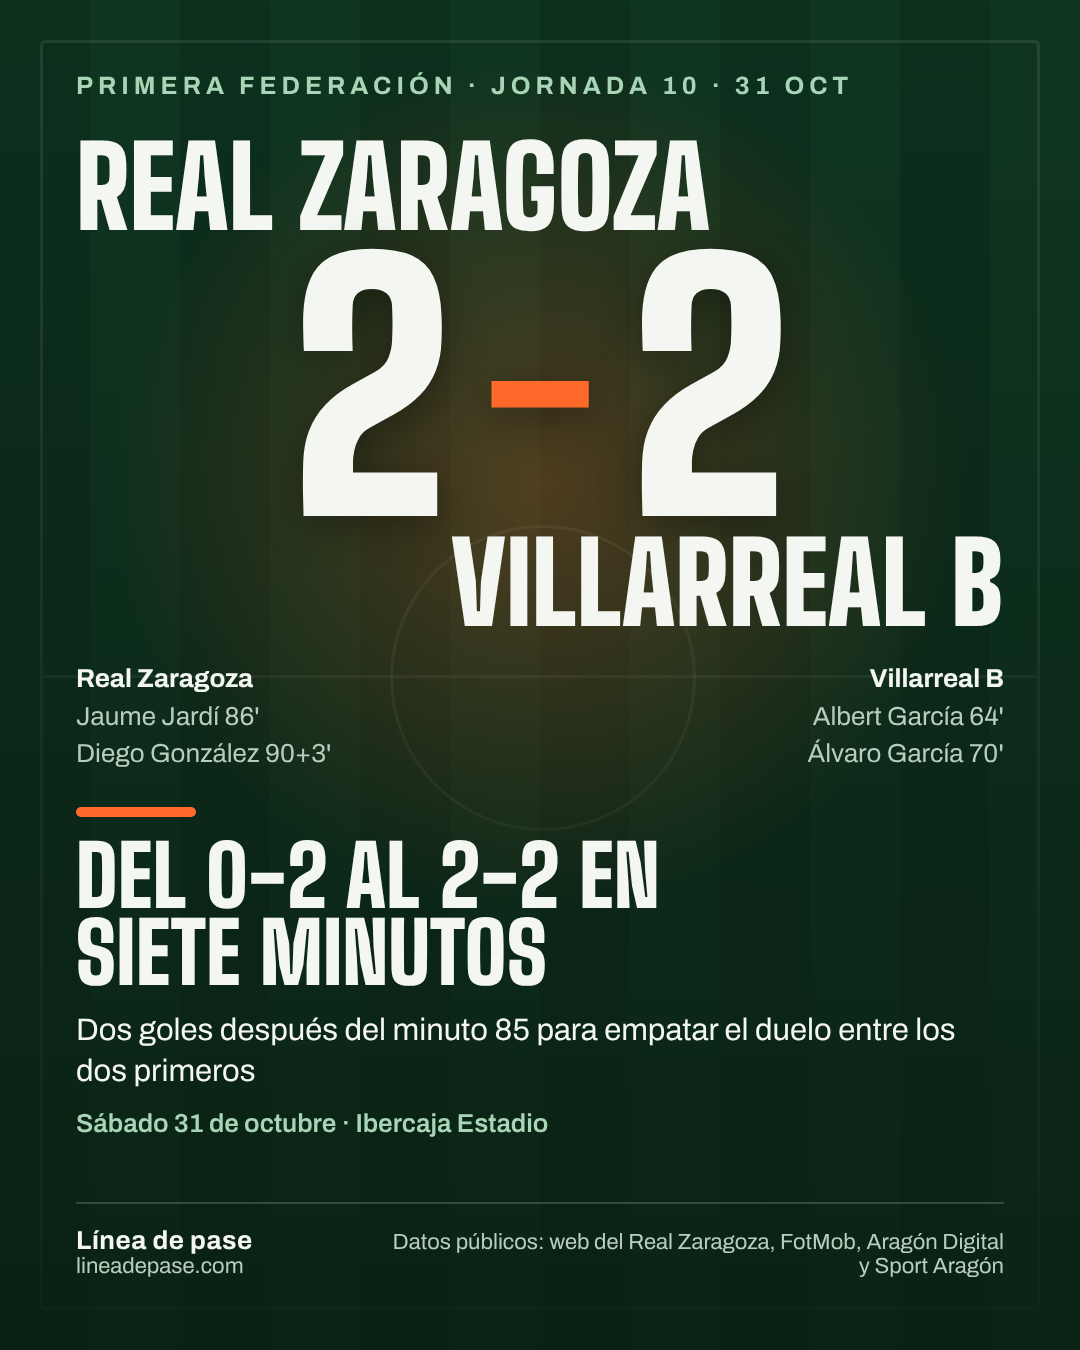
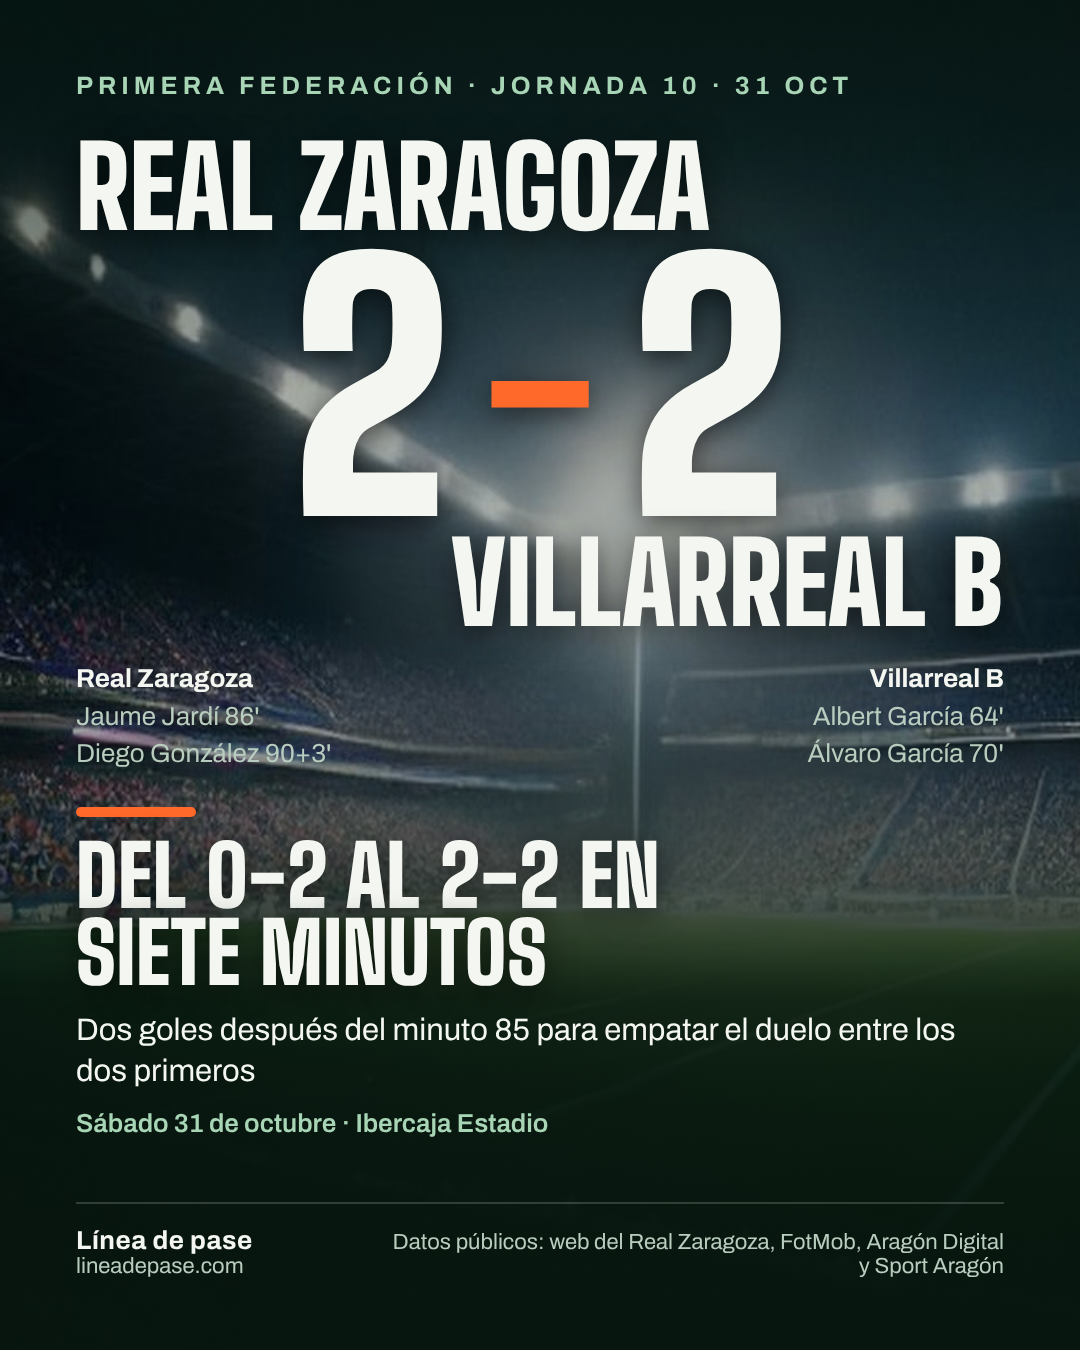
Ilustración de fondo para el resultado de la J10 y recorte de la marca del generador

diff --git a/analisis/real-zaragoza/codigo/ilustracion_ia.py b/analisis/real-zaragoza/codigo/ilustracion_ia.py
@@ -56,9 +56,11 @@ def generar(descripcion, ancho, alto, semilla, intentos=3):
 
 
 def ajustar(imagen, ancho, alto):
-    """Recorta al centro y escala al tamaño exacto."""
+    """Quita la franja inferior (marca del servicio gratuito), recorta al centro y escala."""
     proporcion = ancho / alto
     w, h = imagen.size
+    h = int(h * 0.92)
+    imagen = imagen.crop((0, 0, w, h))
     if w / h > proporcion:
         nuevo = int(h * proporcion)
         imagen = imagen.crop(((w - nuevo) // 2, 0, (w - nuevo) // 2 + nuevo, h))
